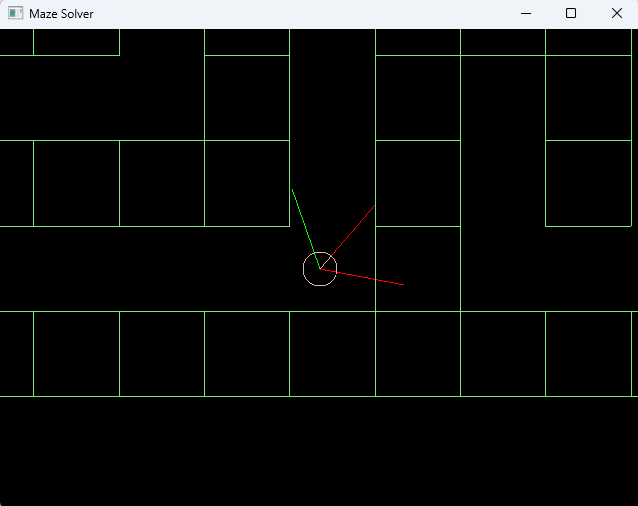
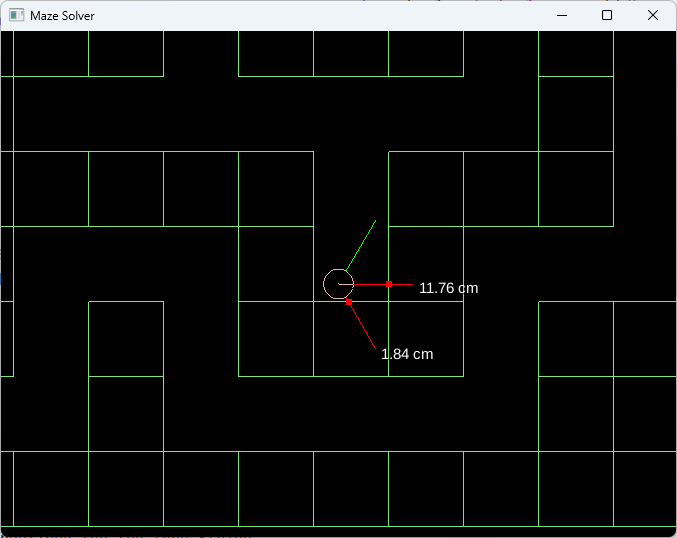
fix gwt string format and change screenshot

diff --git a/core/src/ynsrc/mazesolver/Robot.java b/core/src/ynsrc/mazesolver/Robot.java
@@ -8,9 +8,7 @@ import com.badlogic.gdx.graphics.g2d.BitmapFont;
 import com.badlogic.gdx.graphics.glutils.ShapeRenderer;
 import com.badlogic.gdx.math.MathUtils;
 import com.badlogic.gdx.math.Vector2;
-import com.badlogic.gdx.math.Vector3;
 import com.badlogic.gdx.physics.box2d.*;
-import com.badlogic.gdx.physics.box2d.joints.FrictionJointDef;
 import com.badlogic.gdx.scenes.scene2d.Actor;
 import com.badlogic.gdx.utils.Disposable;
 
@@ -187,6 +185,12 @@ public class Robot extends Actor implements Disposable {
         if (Gdx.input.isKeyPressed(Input.Keys.D)) turnRight();
     }
 
+    private String floatFormat(float number) {
+        String val = String.valueOf(number).replace(",", ".");
+        String[] raw = val.split("\\.");
+        return raw[0] + "." + raw[1].substring(0, 2);
+    }
+
     @Override
     public void draw(Batch batch, float parentAlpha) {
         float ratio = MazeSolver.SCREEN_WIDTH / Gdx.graphics.getWidth();
@@ -195,7 +199,7 @@ public class Robot extends Actor implements Disposable {
             Vector2 screenCoordinates = mazeSolver.viewport.project(rayFront.end.cpy().scl(1.01f));
             font.draw(
                     batch,
-                    String.format("%.2f cm", distanceFront * 100f),
+                    floatFormat(distanceFront * 100f) + " cm",
                     (screenCoordinates.x - Gdx.graphics.getWidth() / 2f) * ratio,
                     (screenCoordinates.y - Gdx.graphics.getHeight() / 2f) * ratio
             );
@@ -205,7 +209,7 @@ public class Robot extends Actor implements Disposable {
             Vector2 screenCoordinates = mazeSolver.viewport.project(rayLeft.end.cpy().scl(1.01f));
             font.draw(
                     batch,
-                    String.format("%.2f cm", distanceLeft * 100f),
+                    floatFormat(distanceLeft * 100f) + " cm",
                     (screenCoordinates.x - Gdx.graphics.getWidth() / 2f) * ratio,
                     (screenCoordinates.y - Gdx.graphics.getHeight() / 2f) * ratio
             );
@@ -215,7 +219,7 @@ public class Robot extends Actor implements Disposable {
             Vector2 screenCoordinates = mazeSolver.viewport.project(rayRight.end.cpy().scl(1.01f));
             font.draw(
                     batch,
-                    String.format("%.2f cm", distanceRight * 100f),
+                    floatFormat(distanceRight * 100f) + " cm",
                     (screenCoordinates.x - Gdx.graphics.getWidth() / 2f) * ratio,
                     (screenCoordinates.y - Gdx.graphics.getHeight() / 2f) * ratio
             );
